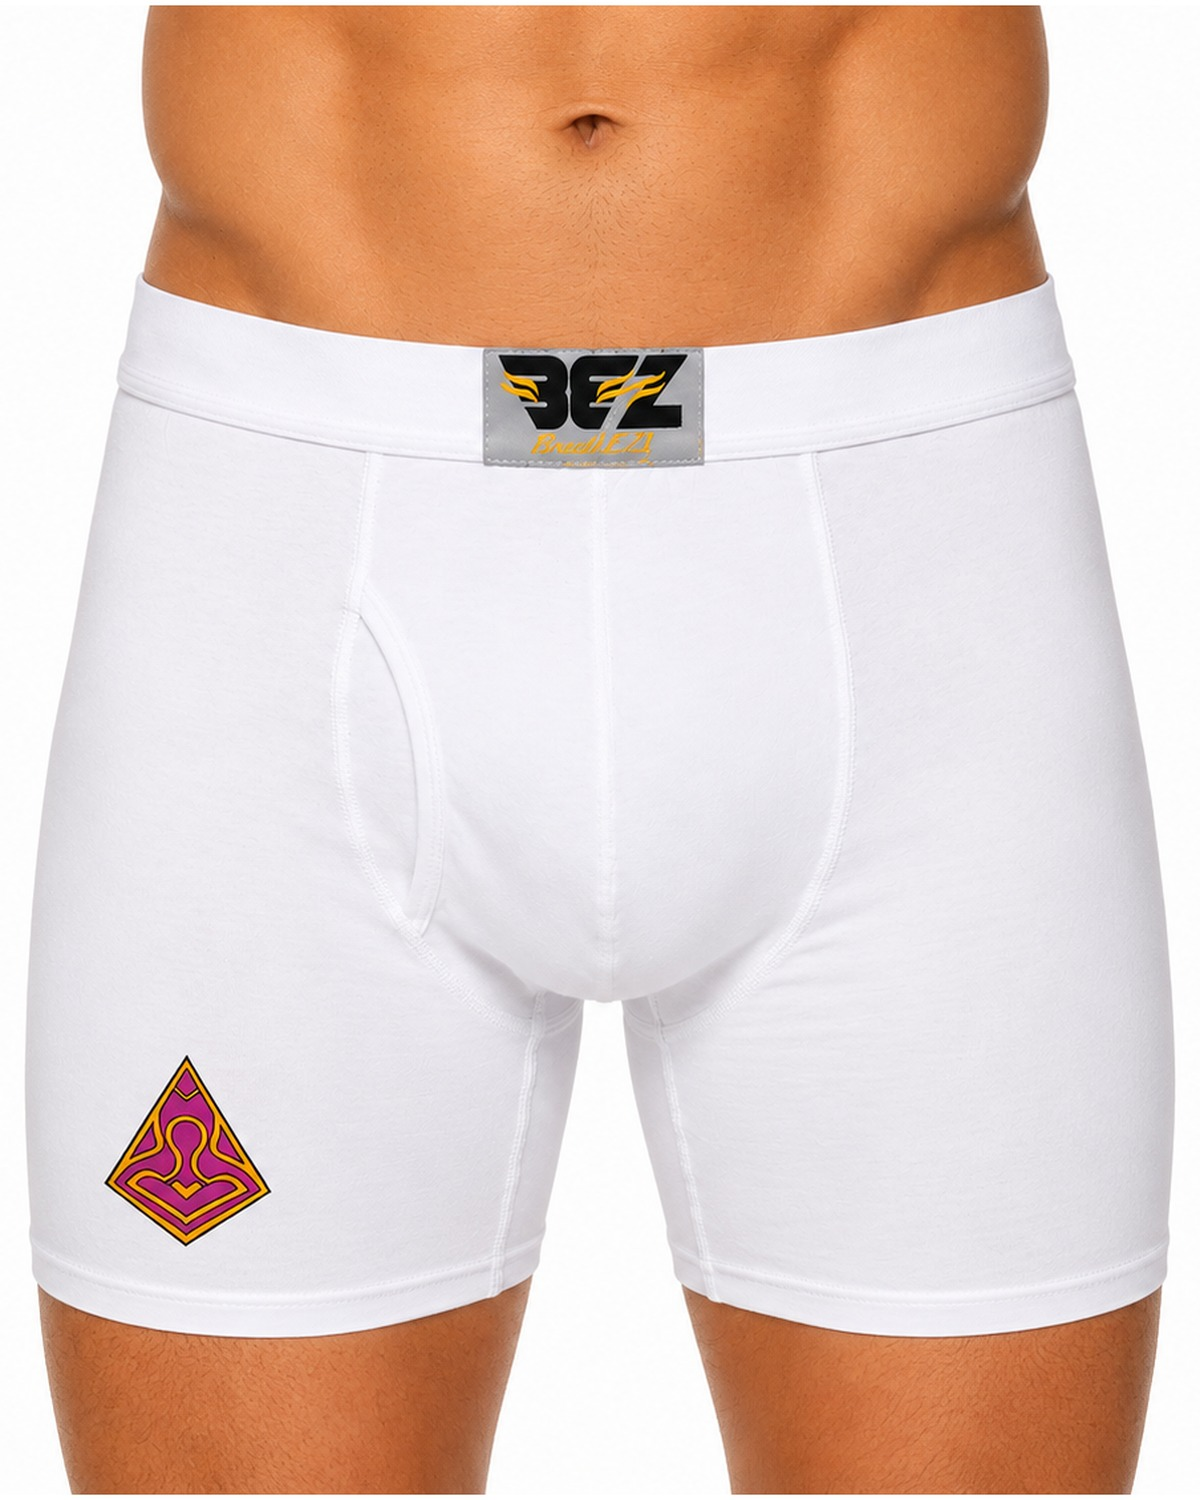
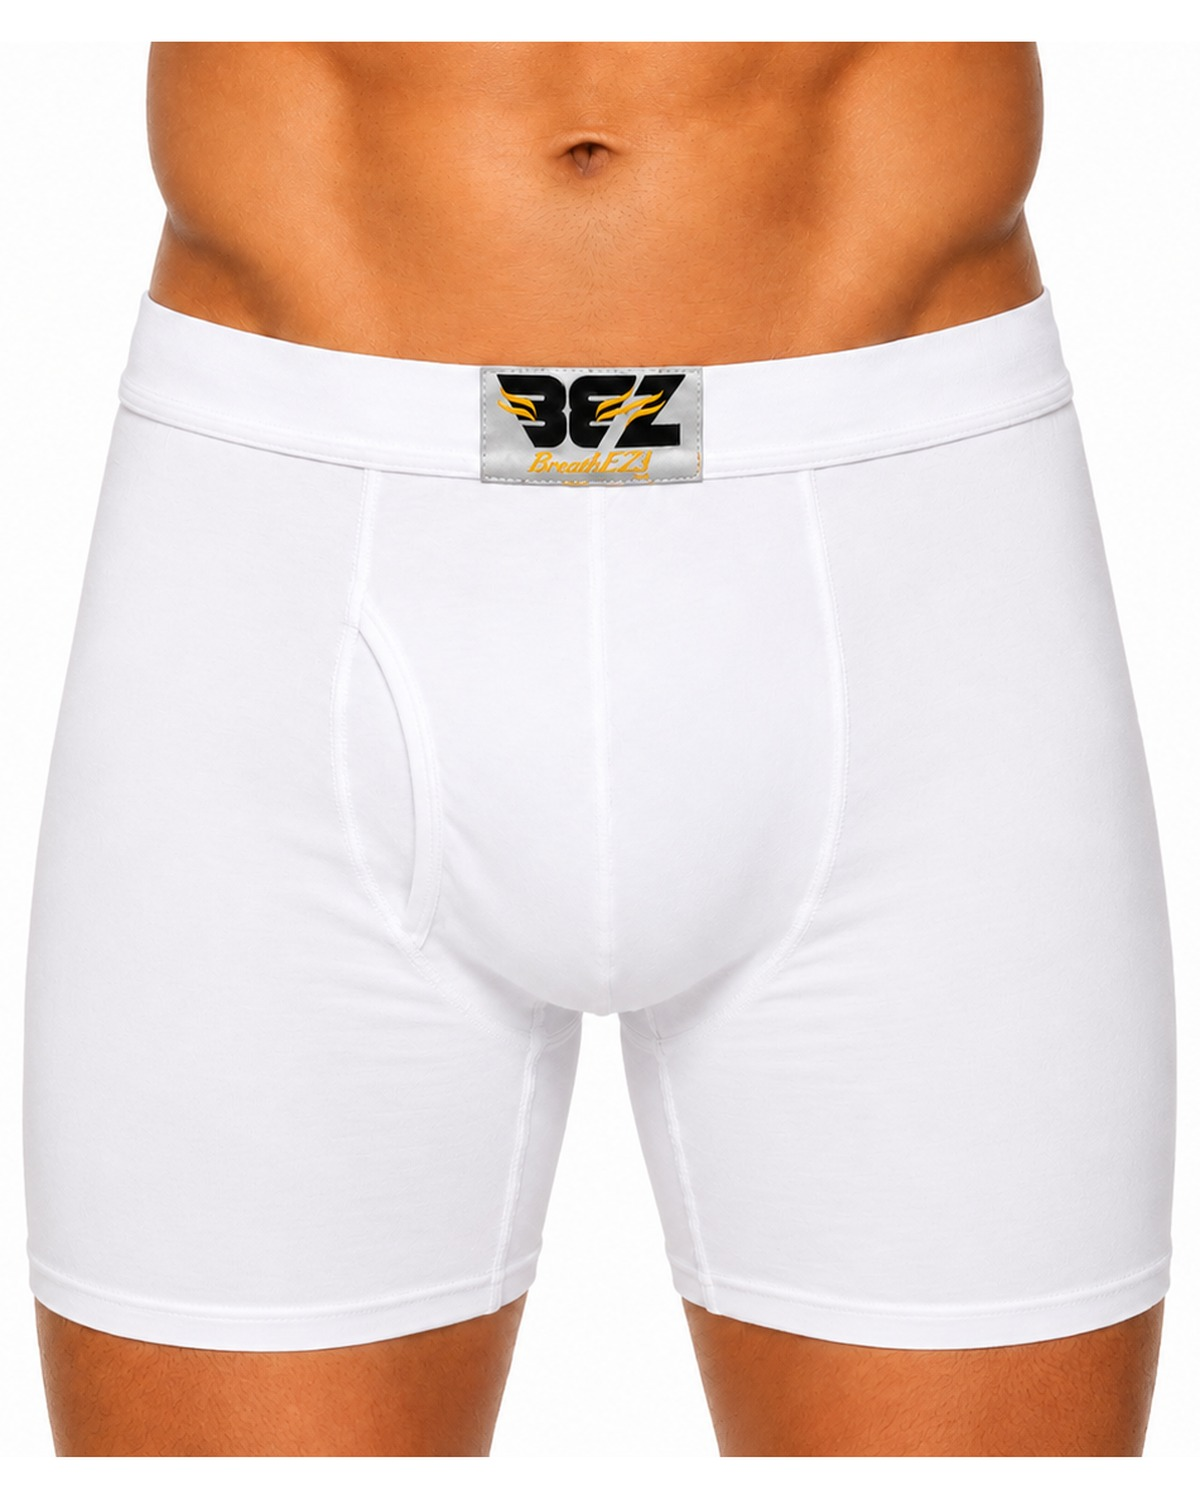
Merge Classic into one card with color selector; real Special Edition photos; fix emblem overflow
- Combine Classic White and Classic Black into a single Classic card
  with a white/black color selector (white default) that swaps the
  front and back images; front/back flip preserved.
- Use real Special Edition front (diamond emblem) and back photos, and
  give that card the same fill-and-flip treatment.
- Swap in the emblem-free Classic White front photo.
- Reposition the About diamond emblem watermark fully into view so it
  is never cut off; add body overflow-x:hidden as a safeguard.
- Tighten vertical section rhythm (104px -> 88px, 72px -> 60px mobile).

Claude-Session: https://claude.ai/code/session_01A2DdCsVA4Qx1DSWeaC92nh

diff --git a/index.html b/index.html
@@ -47,13 +47,13 @@
 }
 *{margin:0;padding:0;box-sizing:border-box}
 html{scroll-behavior:smooth;font-size:17px}
-body{font-family:var(--font);color:var(--ink);background:var(--cream);line-height:1.65;font-weight:400}
+body{font-family:var(--font);color:var(--ink);background:var(--cream);line-height:1.65;font-weight:400;overflow-x:hidden}
 img{max-width:100%}
 a{color:inherit;text-decoration:none}
 h1,h2,h3,h4{line-height:1.12;letter-spacing:-.01em;font-weight:800}
 .container{max-width:var(--maxw);margin:0 auto;padding:0 32px}
-section{padding:104px 0}
-@media(max-width:640px){html{font-size:16px}section{padding:72px 0}.container{padding:0 22px}}
+section{padding:88px 0}
+@media(max-width:640px){html{font-size:16px}section{padding:60px 0}.container{padding:0 22px}}
 
 /* ---------- buttons ---------- */
 .btn{display:inline-flex;align-items:center;gap:10px;font-family:var(--font);font-weight:700;font-size:.9rem;letter-spacing:.05em;text-transform:uppercase;padding:16px 32px;border-radius:10px;border:2px solid transparent;cursor:pointer;transition:.25s}
@@ -127,7 +127,8 @@ h2.title .accent{color:var(--purple)}
 
 /* ---------- about ---------- */
 .about{position:relative;overflow:hidden}
-.about .emblem-bg{position:absolute;right:-90px;top:50%;transform:translateY(-50%);width:min(460px,42vw);opacity:.08;pointer-events:none;filter:saturate(1.1)}
+.about .emblem-bg{position:absolute;right:clamp(16px,3vw,56px);top:50%;transform:translateY(-50%);width:min(380px,32vw);opacity:.08;pointer-events:none;filter:saturate(1.1)}
+@media(max-width:640px){.about .emblem-bg{width:180px;right:8px;opacity:.06}}
 .about .container{position:relative;z-index:1}
 
 /* ---------- feature cards ---------- */
@@ -210,7 +211,7 @@ h2.title .accent{color:var(--purple)}
 
 /* ---------- collection ---------- */
 .collection{background:var(--white)}
-.products{display:grid;grid-template-columns:repeat(3,1fr);gap:30px;margin-top:56px}
+.products{display:grid;grid-template-columns:repeat(2,minmax(0,400px));gap:34px;margin-top:56px;justify-content:center}
 .product{border-radius:var(--radius);overflow:hidden;border:1px solid var(--line);box-shadow:var(--shadow);background:var(--cream);display:flex;flex-direction:column;transition:.25s}
 .product:hover{transform:translateY(-5px);border-color:var(--purple-neon)}
 .product .visual{aspect-ratio:4/5;overflow:hidden;position:relative;display:flex;align-items:center;justify-content:center}
@@ -237,6 +238,15 @@ h2.title .accent{color:var(--purple)}
 .product h3{font-size:1.3rem;font-weight:900;text-transform:uppercase}
 .product p{font-size:.96rem;color:var(--ink-soft);margin:10px 0 22px;min-height:3em}
 .collection .shop-all{text-align:center;margin-top:50px}
+.color-pick{margin:6px 0 22px}
+.color-avail{font-size:.9rem;color:var(--ink-soft);margin-bottom:12px}
+.color-avail .color-name{color:var(--purple);font-weight:700}
+.swatches{display:flex;gap:12px;justify-content:center}
+.swatch{width:30px;height:30px;border-radius:50%;border:2px solid var(--line);cursor:pointer;padding:0;transition:transform .18s,box-shadow .18s,border-color .18s}
+.swatch-white{background:#fff;border-color:#cdc2ec}
+.swatch-black{background:#1b1b1f}
+.swatch:hover{transform:scale(1.1)}
+.swatch.is-active{border-color:var(--purple);box-shadow:0 0 0 3px rgba(124,58,237,.22)}
 
 /* ---------- size guide ---------- */
 .sizing{background:var(--marble)}
@@ -617,34 +627,32 @@ footer#contact{background:linear-gradient(180deg,#20182e,#140d1f);color:rgba(255
     <h2 class="title">Three Ways to <span class="accent">Stay Cool.</span></h2>
     <p class="sub">Launching August 2026 with preorders. Reserve your spot on the waitlist for first access and exclusive first release drops.</p>
     <div class="products">
-      <div class="product">
-        <div class="visual flip">
+      <div class="product" data-color="white">
+        <div class="visual flip"
+             data-front-white="images/product-white.jpg" data-back-white="images/product-white-back.jpg"
+             data-front-black="images/product-black.jpg" data-back-black="images/product-black-back.jpg">
           <span class="tag soft">Classic</span>
-          <img class="face front" src="images/product-white.jpg" alt="BreathEZs Classic White boxer briefs, front">
-          <img class="face back" src="images/product-white-back.jpg" alt="BreathEZs Classic White boxer briefs, open rear airflow">
+          <img class="face front" src="images/product-white.jpg" alt="BreathEZs Classic boxer briefs, front">
+          <img class="face back" src="images/product-white-back.jpg" alt="BreathEZs Classic boxer briefs, open rear airflow">
         </div>
         <div class="info">
-          <h3>Classic White</h3>
-          <p>The clean original. Breathable 100% cotton built for every day, with the open airflow design in its purest form.</p>
+          <h3>Classic</h3>
+          <p>The clean original in breathable 100% cotton, with the open airflow design in its purest form.</p>
+          <div class="color-pick">
+            <p class="color-avail">Available in two colors: <b class="color-name">White</b></p>
+            <div class="swatches" role="group" aria-label="Choose a color">
+              <button type="button" class="swatch swatch-white is-active" data-color="white" data-name="White" aria-label="White" aria-pressed="true"></button>
+              <button type="button" class="swatch swatch-black" data-color="black" data-name="Black" aria-label="Black" aria-pressed="false"></button>
+            </div>
+          </div>
           <a href="#waitlist" class="btn btn-outline">Notify Me</a>
         </div>
       </div>
       <div class="product">
         <div class="visual flip">
-          <span class="tag soft">Classic</span>
-          <img class="face front" src="images/product-black.jpg" alt="BreathEZs Classic Black boxer briefs, front">
-          <img class="face back" src="images/product-black-back.jpg" alt="BreathEZs Classic Black boxer briefs, open rear airflow">
-        </div>
-        <div class="info">
-          <h3>Classic Black</h3>
-          <p>The everyday essential in a bold, go anywhere black. Same premium cotton, same engineered airflow.</p>
-          <a href="#waitlist" class="btn btn-outline">Notify Me</a>
-        </div>
-      </div>
-      <div class="product">
-        <div class="visual">
           <span class="tag">Special Edition</span>
-          <img src="images/product-special.jpg" alt="BreathEZs Special Edition black boxer briefs with the diamond emblem">
+          <img class="face front" src="images/product-special.jpg" alt="BreathEZs Special Edition black boxer briefs with the diamond emblem, front">
+          <img class="face back" src="images/product-special-back.jpg" alt="BreathEZs Special Edition boxer briefs, open rear airflow">
         </div>
         <div class="info">
           <h3>Special Edition Black</h3>
@@ -820,6 +828,31 @@ document.querySelectorAll('.product .visual.flip').forEach(function(v){
   v.appendChild(cue);
   var product = v.closest('.product');
   v.addEventListener('click', function(){ product.classList.toggle('flipped'); });
+});
+
+// Color selector: swap the front and back images for the chosen colorway,
+// keeping whatever face (front or back) is currently showing.
+document.querySelectorAll('.product .swatches').forEach(function(group){
+  var product = group.closest('.product');
+  var visual = product.querySelector('.visual.flip');
+  var front = visual.querySelector('.face.front');
+  var back = visual.querySelector('.face.back');
+  var nameEl = product.querySelector('.color-name');
+  group.querySelectorAll('.swatch').forEach(function(sw){
+    sw.addEventListener('click', function(){
+      var c = sw.dataset.color;
+      var cap = c.charAt(0).toUpperCase() + c.slice(1);
+      front.src = visual.dataset['front' + cap];
+      back.src  = visual.dataset['back' + cap];
+      product.setAttribute('data-color', c);
+      if (nameEl) nameEl.textContent = sw.dataset.name;
+      group.querySelectorAll('.swatch').forEach(function(s){
+        var on = s === sw;
+        s.classList.toggle('is-active', on);
+        s.setAttribute('aria-pressed', on ? 'true' : 'false');
+      });
+    });
+  });
 });
 
 function joinWaitlist(form){
